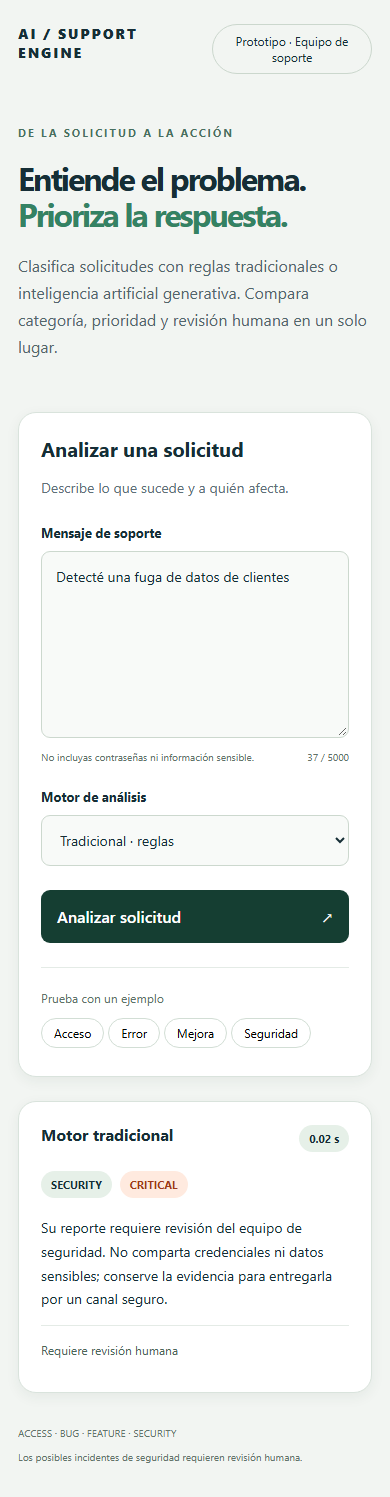
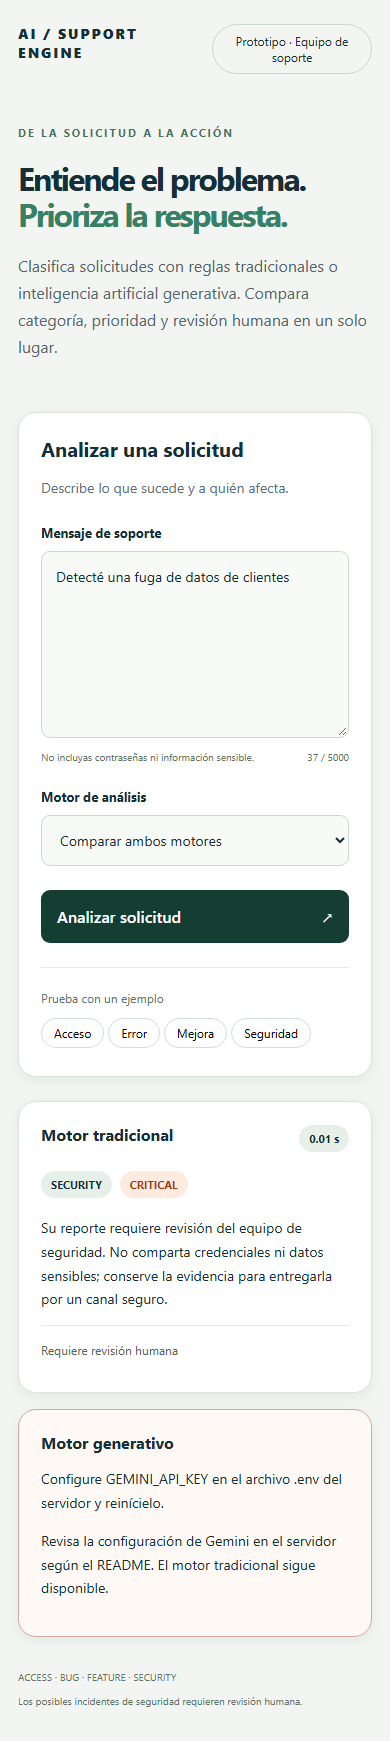
Replace Ollama with Gemini API and update configuration, tests and docs

diff --git a/src/generative.js b/src/generative.js
@@ -2,6 +2,7 @@
 
 const { schema, validResult, validateMessage } = require('./contract');
 const traditional = require('./traditional');
+const DEFAULT_MODEL = 'gemini-3.8-flash';
 
 class ProviderError extends Error {
   constructor(code, message, status = 502) {
@@ -20,38 +21,61 @@ Devuelve solamente el objeto JSON del esquema solicitado, con mode="generative" 
 // La inyección de fetch se usa únicamente en pruebas; producción llama al proveedor real.
 function createAnalyzer({
   fetchImpl = globalThis.fetch,
-  baseUrl = process.env.OLLAMA_URL || 'http://127.0.0.1:11434',
-  model = process.env.OLLAMA_MODEL || 'qwen2.5:1.5b',
-  timeoutMs = Number(process.env.OLLAMA_TIMEOUT_MS || 120000),
+  apiKey = process.env.GEMINI_API_KEY || '',
+  model = process.env.GEMINI_MODEL || DEFAULT_MODEL,
+  timeoutMs = Number(process.env.GEMINI_TIMEOUT_MS || 60000),
 } = {}) {
-  const url = new URL(baseUrl);
-  if (!['http:', 'https:'].includes(url.protocol) || url.username || url.password || url.search || url.hash) {
-    throw new Error('OLLAMA_URL debe ser una URL HTTP(S) sin credenciales, consulta ni fragmento.');
+  if (!Number.isSafeInteger(timeoutMs) || timeoutMs <= 0 || timeoutMs > 300000
+    || typeof model !== 'string' || !/^[a-zA-Z0-9][a-zA-Z0-9._-]*$/.test(model)) {
+    throw new ProviderError('INVALID_PROVIDER_CONFIG', 'Revise GEMINI_MODEL y GEMINI_TIMEOUT_MS (1 a 300000).', 503);
   }
-  if (!Number.isFinite(timeoutMs) || timeoutMs <= 0 || !model.trim()) throw new Error('Configuración de Ollama inválida.');
+  // Destino fijo: la clave se envía sólo a Google, nunca en la URL o al navegador.
+  const url = new URL(`https://generativelanguage.googleapis.com/v1beta/models/${model}:generateContent`);
   return async function analyze(message) {
     validateMessage(message);
+    if (typeof apiKey !== 'string' || !apiKey.trim()) {
+      throw new ProviderError('MISSING_API_KEY', 'Configure GEMINI_API_KEY en el archivo .env del servidor y reinícielo.', 503);
+    }
     let data;
     try {
-      const response = await fetchImpl(new URL('/api/chat', url), {
-        method: 'POST', headers: { 'Content-Type': 'application/json' },
+      const response = await fetchImpl(url, {
+        method: 'POST', redirect: 'error',
+        headers: { 'Content-Type': 'application/json', 'x-goog-api-key': apiKey.trim() },
         signal: AbortSignal.timeout(timeoutMs),
         body: JSON.stringify({
-          model, stream: false, format: schema, options: { temperature: 0 },
-          messages: [{ role: 'system', content: SYSTEM }, { role: 'user', content: message }],
+          systemInstruction: { parts: [{ text: SYSTEM }] },
+          contents: [{ role: 'user', parts: [{ text: message }] }],
+          generationConfig: { responseMimeType: 'application/json', responseJsonSchema: schema },
         }),
       });
-      if (!response.ok) throw new ProviderError('PROVIDER_HTTP_ERROR', 'Ollama rechazó la solicitud. Compruebe que el modelo esté descargado.', 503);
-      data = await response.json();
+      if (!response.ok) {
+        if ([401, 403].includes(response.status)) throw new ProviderError('PROVIDER_AUTH_ERROR', 'Gemini rechazó el acceso. Revise la clave y los permisos de su proyecto en Google AI Studio.', 503);
+        if (response.status === 429) throw new ProviderError('PROVIDER_RATE_LIMIT', 'Gemini alcanzó el límite de uso o cuota. Revise su cuota y vuelva a intentarlo más tarde.', 429);
+        if (response.status === 404) throw new ProviderError('PROVIDER_MODEL_NOT_FOUND', 'El modelo configurado no está disponible. Revise GEMINI_MODEL en .env.', 503);
+        throw new ProviderError('PROVIDER_HTTP_ERROR', 'Gemini rechazó la solicitud. Revise la configuración del proveedor.', 503);
+      }
+      try { data = await response.json(); }
+      catch { throw new ProviderError('INVALID_MODEL_OUTPUT', 'Gemini no devolvió una respuesta JSON válida.'); }
     } catch (error) {
       if (error instanceof ProviderError) throw error;
       if (['TimeoutError', 'AbortError'].includes(error.name)) {
-        throw new ProviderError('PROVIDER_TIMEOUT', 'Ollama excedió el tiempo de respuesta.', 504);
+        throw new ProviderError('PROVIDER_TIMEOUT', 'Gemini excedió el tiempo de respuesta.', 504);
       }
-      throw new ProviderError('PROVIDER_UNAVAILABLE', 'No se pudo consultar Ollama. Compruebe que esté iniciado y revise su configuración.', 503);
+      throw new ProviderError('PROVIDER_UNAVAILABLE', 'No se pudo consultar Gemini. Revise la conexión a internet y la configuración del servidor.', 503);
+    }
+    const candidate = data?.candidates?.[0];
+    if (data?.promptFeedback?.blockReason || candidate?.finishReason === 'SAFETY') {
+      throw new ProviderError('MODEL_BLOCKED', 'Gemini bloqueó la generación. Reformule el reporte sin incluir datos sensibles.');
+    }
+    // No aceptar salidas truncadas ni partes internas de razonamiento.
+    if (candidate?.finishReason !== 'STOP' || !Array.isArray(candidate?.content?.parts)) {
+      throw new ProviderError('INVALID_MODEL_OUTPUT', 'Gemini no devolvió una respuesta completa.');
     }
     let result;
-    try { result = JSON.parse(data.message.content); } catch {
+    try {
+      const text = candidate.content.parts.filter(part => part && part.thought !== true && typeof part.text === 'string').map(part => part.text).join('');
+      result = JSON.parse(text);
+    } catch {
       throw new ProviderError('INVALID_MODEL_OUTPUT', 'El modelo no devolvió JSON válido.');
     }
     if (!validResult(result, 'generative')) {
@@ -74,4 +98,4 @@ function createAnalyzer({
 }
 
 async function analyze(message) { return createAnalyzer()(message); }
-module.exports = { analyze, createAnalyzer, ProviderError };
+module.exports = { analyze, createAnalyzer, ProviderError, DEFAULT_MODEL };

diff --git a/public/index.html b/public/index.html
@@ -18,12 +18,12 @@
           <textarea id="message" name="message" maxlength="5000" rows="7" required placeholder="Ej. No puedo iniciar sesión en mi cuenta desde esta mañana."></textarea>
           <div class="meta"><span>No incluyas contraseñas ni información sensible.</span><span id="count">0 / 5000</span></div>
           <label for="mode">Motor de análisis</label>
-          <select id="mode" name="mode"><option value="both">Comparar ambos motores</option><option value="traditional">Tradicional · reglas</option><option value="generative">Generativo · Ollama</option></select>
+          <select id="mode" name="mode"><option value="both">Comparar ambos motores</option><option value="traditional">Tradicional · reglas</option><option value="generative">Generativo · Gemini</option></select>
           <button id="submit" type="submit">Analizar solicitud <span aria-hidden="true">↗</span></button>
         </form>
         <div class="examples"><p>Prueba con un ejemplo</p><button type="button" data-example="No puedo iniciar sesión en mi cuenta">Acceso</button><button type="button" data-example="La aplicación se cierra al guardar un documento">Error</button><button type="button" data-example="Me gustaría agregar modo oscuro">Mejora</button><button type="button" data-example="Detecté una fuga de datos de clientes">Seguridad</button></div>
       </section>
-      <section class="results" aria-live="polite" aria-busy="false" id="results"><div class="empty"><span class="symbol" aria-hidden="true">✳</span><h2>Una solicitud, dos perspectivas.</h2><p>Los resultados aparecerán aquí. El motor tradicional funciona sin conexión; el generativo necesita Ollama y un modelo descargado.</p></div></section>
+      <section class="results" aria-live="polite" aria-busy="false" id="results"><div class="empty"><span class="symbol" aria-hidden="true">✳</span><h2>Una solicitud, dos perspectivas.</h2><p>Los resultados aparecerán aquí. El motor tradicional funciona sin conexión; el generativo utiliza Gemini en la nube. Los mensajes enviados al modo generativo se comparten con Google.</p></div></section>
     </div>
     <footer><span>ACCESS · BUG · FEATURE · SECURITY</span><span>Los posibles incidentes de seguridad requieren revisión humana.</span></footer>
   </main>

diff --git a/scripts/compare.js b/scripts/compare.js
@@ -33,9 +33,9 @@ async function main() {
   const out = path.join(__dirname, '..', 'results');
   await fs.mkdir(out, { recursive: true });
   const conclusion = summary.generative.completed !== cases.length
-    ? 'La evaluación generativa está incompleta por errores del proveedor. No se puede determinar qué motor es mejor hasta ejecutar todos los casos con Ollama y el modelo disponibles. Las pruebas con dobles no cuentan como evidencia generativa real.'
+    ? 'La evaluación generativa está incompleta por errores del proveedor. No se puede determinar qué motor es mejor hasta ejecutar todos los casos con Gemini y una clave válida con cuota disponible. Las pruebas con dobles no cuentan como evidencia generativa real.'
     : `En estos ${cases.length} casos, el motor tradicional obtuvo ${summary.traditional.accuracyPercent}% de aciertos y el generativo ${summary.generative.accuracyPercent}%. El acierto exige categoría, prioridad y revisión humana correctas, además del contrato válido. Esta muestra pequeña y diseñada para las reglas no permite generalizar. El generativo incluye una defensa determinista de seguridad, por lo que los resultados evalúan la solución completa, no solamente el modelo.`;
-  await fs.writeFile(path.join(out, 'comparison.json'), JSON.stringify({ generatedAt: new Date().toISOString(), provider: 'Ollama', model: process.env.OLLAMA_MODEL || 'qwen2.5:1.5b', summary, conclusion, results }, null, 2));
+  await fs.writeFile(path.join(out, 'comparison.json'), JSON.stringify({ generatedAt: new Date().toISOString(), provider: 'Gemini', model: process.env.GEMINI_MODEL || generative.DEFAULT_MODEL, summary, conclusion, results }, null, 2));
   const csv = value => `"${String(value ?? '').replace(/"/g, '""')}"`;
   const header = ['id', 'mode', 'message', 'expectedCategory', 'expectedPriority', 'expectedReview', 'category', 'priority', 'requiresHumanReview', 'formatValid', 'correct', 'elapsedMs', 'error'];
   const lines = results.map(row => [row.id, row.mode, row.message, row.reference.category, row.reference.priority, row.reference.requiresHumanReview, row.actual?.category, row.actual?.priority, row.actual?.requiresHumanReview, row.formatValid, row.correct, row.elapsedMs, row.error].map(csv).join(','));

diff --git a/public/app.js b/public/app.js
@@ -38,7 +38,7 @@ async function analyze(mode, text) {
   } catch (error) {
     card.classList.add('error');
     card.replaceChildren(element('h2', title), element('p', error.message));
-    if (mode === 'generative') card.append(element('p', 'Inicia Ollama y descarga el modelo indicado en el README. El motor tradicional sigue disponible.'));
+    if (mode === 'generative') card.append(element('p', 'Revisa la configuración de Gemini en el servidor según el README. El motor tradicional sigue disponible.'));
   }
 }
 

diff --git a/README.md b/README.md
@@ -1,28 +1,36 @@
 # AI Support Engine
 
-Prototipo funcional para clasificar solicitudes de soporte con dos enfoques: reglas tradicionales y un modelo generativo real servido por Ollama. Incluye API HTTP, interfaz web, pruebas independientes y 12 casos comparativos con referencias definidas antes de la evaluación.
+Prototipo funcional para clasificar solicitudes de soporte con dos enfoques: reglas tradicionales y un modelo generativo real mediante Gemini API. Incluye API HTTP, interfaz web, pruebas independientes y 12 casos comparativos con referencias definidas antes de la evaluación. No requiere Ollama ni descargar modelos.
 
 ## Requisitos
 
 - Node.js 22.9 o superior (verifique con `node --version`).
-- Ollama instalado y un modelo descargado para el modo generativo. El tradicional funciona sin Ollama y sin internet.
-- No hay dependencias npm externas, claves ni servicios de pago necesarios.
+- Internet y una clave de Gemini API para el modo generativo. El tradicional funciona sin clave y sin internet.
+- No hay dependencias npm externas. La disponibilidad de modelos, cuotas y posibles cargos depende de la cuenta y configuración de Google AI Studio; revise su panel antes de usar la API.
 
 ## Inicio en Windows
 
 Abra PowerShell en la carpeta `ai-support-engine`:
 
 ```powershell
-Copy-Item .env.example .env
-ollama pull qwen2.5:1.5b
-npm start
+if (!(Test-Path .env)) { Copy-Item .env.example .env }
+notepad .env
 ```
 
-Abra <http://127.0.0.1:3000>. Si Ollama no está iniciado, abra otra terminal con `ollama serve` o inicie la aplicación de Ollama. Si el comando `ollama` no existe, instálelo desde <https://ollama.com/download/windows> y reabra la terminal. La descarga del modelo requiere internet y espacio de almacenamiento; su velocidad depende del equipo. Puede seleccionar otro modelo instalado mediante `OLLAMA_MODEL` en `.env`.
+1. Cree una clave en [Google AI Studio](https://aistudio.google.com/api-keys) con su cuenta de Google.
+2. En el archivo `.env` recién abierto, escriba su clave después de `GEMINI_API_KEY=` y guarde. No la comparta por chat ni la suba a GitHub.
+3. Mantenga `GEMINI_MODEL=gemini-3.8-flash` o indique otro modelo de texto de su cuenta que admita salidas estructuradas.
+4. Inicie el servidor:
+
+```powershell
+npm.cmd start
+```
+
+Abra <http://127.0.0.1:3000>. Seleccione «Generativo · Gemini» o «Comparar ambos motores». Después de modificar `.env`, reinicie el servidor. Las antiguas variables `OLLAMA_*` ya no se utilizan; si conserva un `.env` de la versión anterior, añada las nuevas variables de `.env.example` sin sobrescribir otras configuraciones.
 
 Si PowerShell bloquea `npm.ps1`, utilice `npm.cmd start`, `npm.cmd test` y `npm.cmd run compare`. No es necesario cambiar la política de ejecución del equipo. Detenga el servidor con Ctrl+C.
 
-Puede iniciar solamente el prototipo con `npm start` antes de instalar Ollama. El modo tradicional estará disponible y el generativo mostrará un error explícito de proveedor, sin simular respuestas.
+Puede iniciar el prototipo antes de configurar Gemini. El modo tradicional estará disponible y el generativo mostrará `MISSING_API_KEY`, sin simular respuestas. La clave se utiliza sólo en el servidor, en una cabecera HTTPS destinada a Google; no se entrega a la interfaz web ni se incluye en la URL.
 
 ## Uso de la API
 
@@ -51,7 +59,7 @@ $ticket = @{ message = 'Detecté una vulnerabilidad'; mode = 'generative' } | Co
 Invoke-RestMethod -Uri http://127.0.0.1:3000/api/analyze -Method Post -ContentType 'application/json; charset=utf-8' -Body ([Text.Encoding]::UTF8.GetBytes($ticket))
 ```
 
-La entrada exige message con texto de hasta 5000 caracteres y mode válido. No admite campos extra. El límite del cuerpo es 32 KiB. Errores: 400 entrada/JSON inválido, 413 tamaño excesivo, 415 contenido no JSON, 502 respuesta del modelo inválida, 503 proveedor no disponible/modelo no instalado, 504 tiempo agotado. Los errores tienen `{ "error": { "code": "...", "message": "..." } }` y no contienen mensajes privados del proveedor.
+La entrada exige message con texto de hasta 5000 caracteres y mode válido. No admite campos extra. El límite del cuerpo es 32 KiB. Errores: 400 entrada/JSON inválido, 413 tamaño excesivo, 415 contenido no JSON, 429 cuota o límite de uso de Gemini, 502 respuesta del modelo inválida/incompleta o bloqueada, 503 clave faltante/rechazada, modelo no disponible o proveedor inaccesible, 504 tiempo agotado. Los errores tienen `{ "error": { "code": "...", "message": "..." } }` y no contienen claves ni mensajes privados del proveedor.
 
 ## Pruebas y comparación real
 
@@ -60,24 +68,24 @@ npm test
 npm run compare
 ```
 
-Las pruebas unitarias y de API no requieren Ollama. Los dobles de proveedor existen únicamente en pruebas; no son evidencia de IA real. `npm run compare` llama realmente a ambos motores con los 12 mensajes de `tests/cases.json`, y guarda resultados detallados, tabla CSV y conclusión de menos de 150 palabras en `results/`. Si Ollama falta, registra fallos explícitos, devuelve código 1 y no declara un ganador. Reejecute la comparación tras iniciar Ollama para obtener la evidencia completa.
+Las pruebas unitarias y de API no requieren clave ni conexión con Google. Los dobles de proveedor existen únicamente en pruebas; no son evidencia de IA real. `npm run compare` llama realmente a ambos motores con los 12 mensajes de `tests/cases.json`, y guarda resultados detallados, tabla CSV y conclusión de menos de 150 palabras en `results/`. La comparación envía los 12 tickets a Google y consume cuota. Si falta la clave o falla el proveedor, registra fallos explícitos, devuelve código 1 y no declara un ganador. Reejecute la comparación tras configurar una clave con cuota disponible para obtener la evidencia completa.
 
 La exactitud exige contrato válido y coincidencia de categoría, prioridad y revisión humana. El denominador son los 12 casos por motor, incluyendo fallos. Si no hay respuestas del proveedor, su exactitud es `null`, no evaluable. La muestra incluye ambigüedad y dos intentos de manipulación; no representa una medición general de calidad en producción.
 
 ## Organización del equipo
 
 - Dana: `src/traditional.js` y `tests/traditional.test.cjs` (conservados).
-- Motor generativo: `src/generative.js`; prompt, esquema JSON y consulta real a `/api/chat` de Ollama.
+- Motor generativo: `src/generative.js`; instrucciones del sistema, esquema JSON y consulta HTTPS real a `generateContent` de Gemini.
 - API e integración: `src/server.js`, `src/contract.js`, `public/`, `scripts/compare.js` y pruebas adicionales.
 
 ## Decisiones y límites
 
 El motor tradicional normaliza acentos, espacios y mayúsculas. Usa precedencia SECURITY > ACCESS > BUG > FEATURE. ACCESS/BUG suelen ser MEDIUM, mejoras LOW, bloqueos y seguridad HIGH, pérdidas/fugas de datos y caídas generales CRITICAL. Sin contexto devuelve BUG/MEDIUM provisional y revisión humana. No interpreta toda negación o ironía.
 
-El generativo separa instrucciones del sistema y ticket no confiable, solicita un esquema JSON y valida los cinco campos en la respuesta. Una defensa de reglas evita que señales conocidas de seguridad se desescalen: SECURITY siempre requiere revisión y mínimo HIGH. Esta defensa no sustituye la generación: si Ollama falla, la solicitud falla. La respuesta profesional procede del modelo, cuya calidad puede variar; las reglas no detectan todos los incidentes ni garantizan resistencia absoluta a manipulación.
+El generativo separa instrucciones del sistema y ticket no confiable, solicita un esquema JSON y valida los cinco campos en la respuesta. Rechaza respuestas truncadas, bloqueadas o mal formadas. Una defensa de reglas evita que señales conocidas de seguridad se desescalen: SECURITY siempre requiere revisión y mínimo HIGH. Esta defensa no sustituye la generación: si Gemini falla, la solicitud falla. La respuesta profesional procede del modelo, cuya calidad puede variar; las reglas no detectan todos los incidentes ni garantizan resistencia absoluta a manipulación.
 
-No se guardan tickets ni se registran sus contenidos en el servidor. La interfaz usa texto seguro para mostrar respuestas, no HTML del modelo. `.env` está excluido del repositorio. Por defecto todo funciona en localhost; no exponga el prototipo a internet sin autenticación, límites de uso y una revisión adicional. No envíe secretos al modelo. Si configura un proveedor remoto, el ticket saldrá del equipo.
+El servidor de la API no guarda tickets ni registra sus contenidos; el comparador sí guarda los casos y resultados de evaluación en `results/`. La interfaz usa texto seguro para mostrar respuestas, no HTML del modelo. `.env` está excluido del repositorio. La interfaz y API se sirven en localhost; el motor generativo envía el ticket a Google por internet. No envíe datos personales, contraseñas o secretos. No exponga el prototipo a internet sin autenticación, límites de uso y una revisión adicional.
 
-Configuración opcional: HOST, PORT, OLLAMA_URL, OLLAMA_MODEL y OLLAMA_TIMEOUT_MS en `.env`. La conexión predeterminada es local y el tiempo máximo de generación es 120 segundos.
+Configuración en `.env`: HOST y PORT para el servidor; GEMINI_API_KEY para el generativo; GEMINI_MODEL (por defecto `gemini-3.8-flash`); GEMINI_TIMEOUT_MS (por defecto 60000, entre 1 y 300000 milisegundos). La URL del proveedor está fijada a Google para evitar que una configuración accidental envíe la clave a otro destino.
 
-Documentación de la integración: [salidas estructuradas de Ollama](https://ollama.com/blog/structured-outputs).
+Documentación oficial: [Gemini API](https://ai.google.dev/gemini-api/docs), [salidas estructuradas](https://ai.google.dev/gemini-api/docs/structured-output), [referencia generateContent](https://ai.google.dev/api/generate-content), [modelos disponibles](https://ai.google.dev/gemini-api/docs/models).

diff --git a/results/README.md b/results/README.md
@@ -4,4 +4,4 @@ Ejecute `npm run compare` para generar `comparison.json`, `comparison.csv` y `co
 
 Los 12 casos de referencia se definen previamente en `tests/cases.json`: incluyen casos normales, dos ambiguos y dos intentos de manipulación. El acierto exige coincidencia de categoría, prioridad y revisión humana, y formato válido. Los errores cuentan como casos no acertados; si el proveedor nunca responde, la exactitud generativa se registra como `null` (no evaluable). Se conserva cada error explícitamente.
 
-El generativo siempre consulta Ollama de verdad. Si no está disponible, la comparación termina con código 1 y una conclusión de evaluación incompleta. No se inventan resultados ni se sustituyen por respuestas del motor tradicional.
+El generativo consulta Gemini de verdad cuando hay una clave configurada. Si falta la clave, la conexión o la cuota, la comparación termina con código 1 y una conclusión de evaluación incompleta. No se inventan resultados ni se sustituyen por respuestas del motor tradicional. La clave nunca se incluye en las evidencias.
